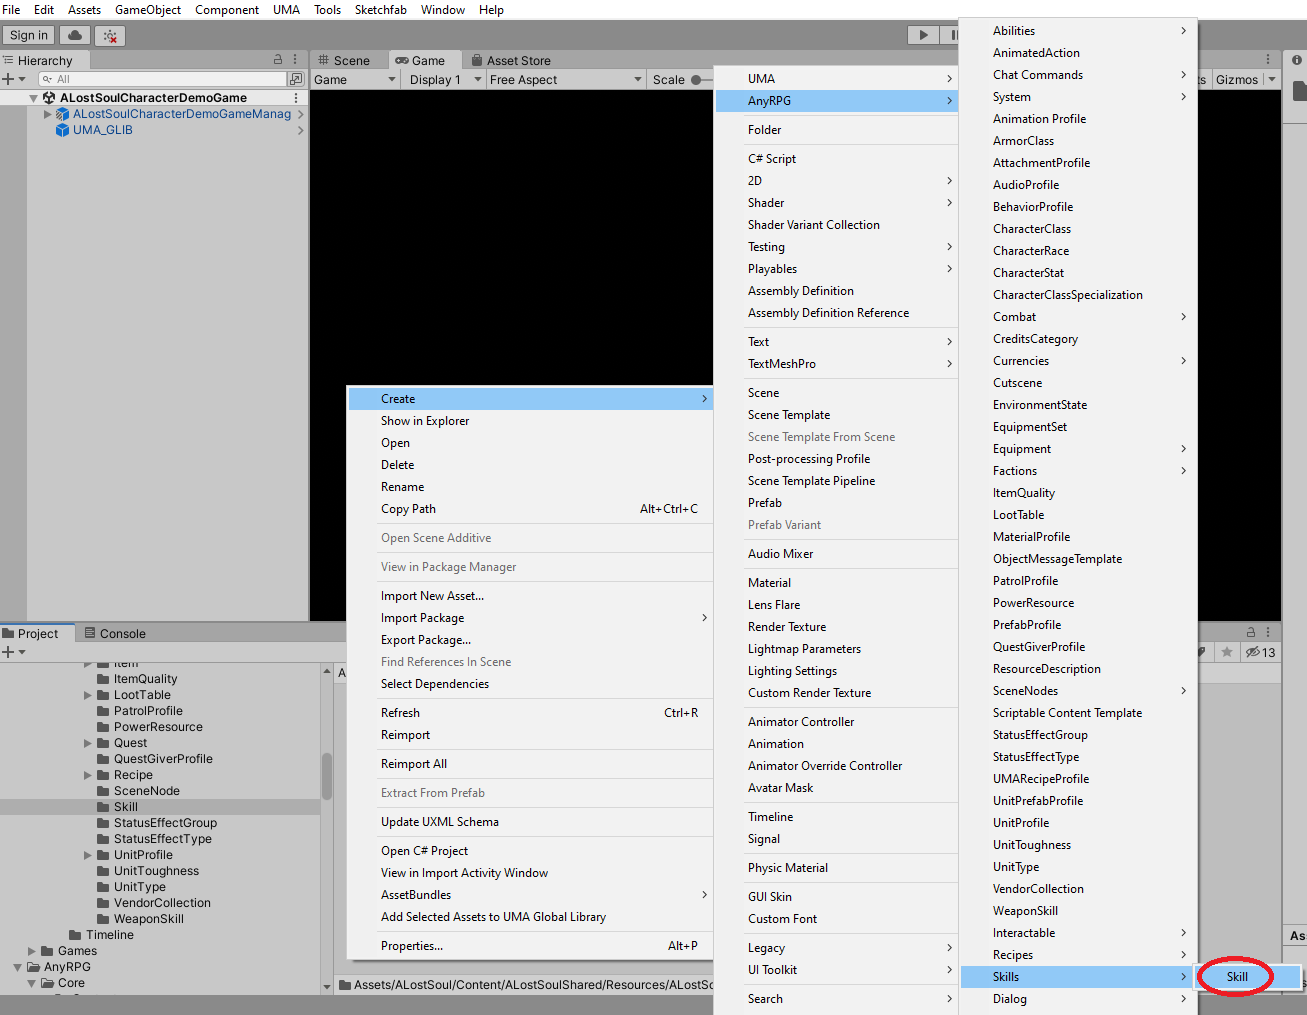
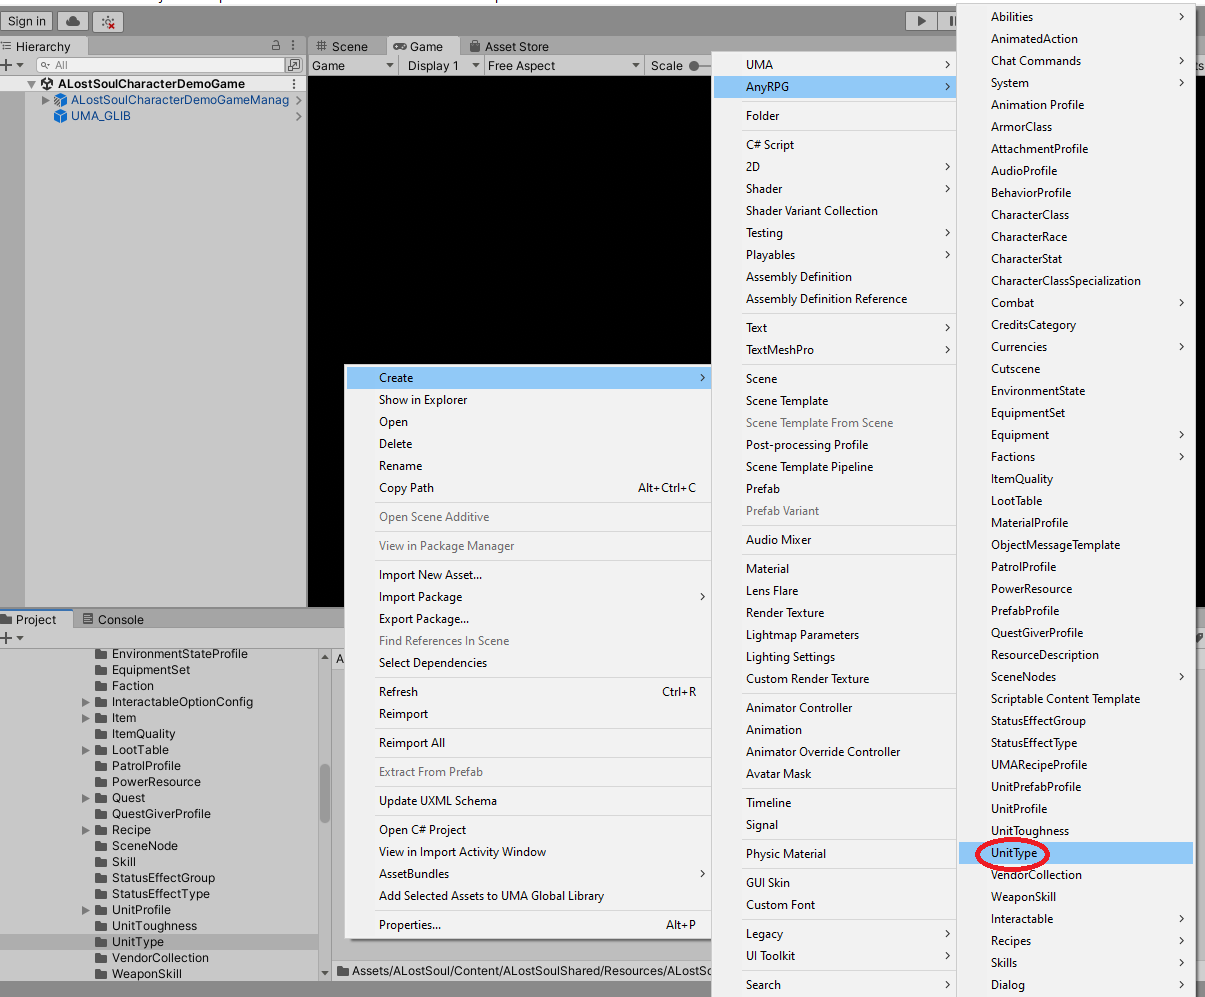
GitBook: [#66] add bank config documentation

Changed region(s): [[0.0, 0.0, 1.0, 1.0], [0.4913, 0.4975, 0.522, 0.5286]]

diff --git a/SUMMARY.md b/SUMMARY.md
@@ -81,15 +81,15 @@
 * [Equipment Slot Type](scriptable-objects/equipment-slot-type.md)
 * [Faction](scriptable-objects/faction.md)
 * [Interactable Option Configurations](scriptable-objects/interactable-option-configurations/README.md)
-  * [Gathering Node Config](scriptable-objects/interactable-option-configurations/gathering-node-config.md)
-  * [Faction Change Config](scriptable-objects/interactable-option-configurations/faction-change-config.md)
-  * [Dialog Config](scriptable-objects/interactable-option-configurations/dialog-config.md)
-  * [Cutscene Config](scriptable-objects/interactable-option-configurations/cutscene-config.md)
-  * [Crafting Node Config](scriptable-objects/interactable-option-configurations/crafting-node-config.md)
-  * [Class Change Config](scriptable-objects/interactable-option-configurations/class-change-config.md)
-  * [Character Creator Config](scriptable-objects/interactable-option-configurations/character-creator-config.md)
-  * [Behavior Config](scriptable-objects/interactable-option-configurations/behavior-config.md)
   * [Bank Config](scriptable-objects/interactable-option-configurations/bank-config.md)
+  * [Behavior Config](scriptable-objects/interactable-option-configurations/behavior-config.md)
+  * [Character Creator Config](scriptable-objects/interactable-option-configurations/character-creator-config.md)
+  * [Class Change Config](scriptable-objects/interactable-option-configurations/class-change-config.md)
+  * [Crafting Node Config](scriptable-objects/interactable-option-configurations/crafting-node-config.md)
+  * [Cutscene Config](scriptable-objects/interactable-option-configurations/cutscene-config.md)
+  * [Dialog Config](scriptable-objects/interactable-option-configurations/dialog-config.md)
+  * [Faction Change Config](scriptable-objects/interactable-option-configurations/faction-change-config.md)
+  * [Gathering Node Config](scriptable-objects/interactable-option-configurations/gathering-node-config.md)
   * [Item Pickup Config](scriptable-objects/interactable-option-configurations/item-pickup-config.md)
   * [Load Scene Config](scriptable-objects/interactable-option-configurations/load-scene-config.md)
   * [Lootable Character Config](scriptable-objects/interactable-option-configurations/lootable-character-config.md)

diff --git a/scriptable-objects/interactable-option-configurations/bank-config.md b/scriptable-objects/interactable-option-configurations/bank-config.md
@@ -1,5 +1,21 @@
+---
+description: >-
+  A bank config creates a bank interactable option, which allows the character
+  to store items.
+---
+
 # Bank Config
 
-{% hint style="info" %}
-Coming Soon
-{% endhint %}
+## Creation
+
+To create a faction, find (or create) the _GameName/Resources/GameName/InteractableOptionConfig_ folder in the project tab and right click.  Choose _Create > AnyRPG > Interactable > BankConfig_.
+
+![](../../.gitbook/assets/image.png)
+
+## Properties
+
+A bank config does not have any properties other than the properties shared by all [Interactable Option Configs](./#properties).
+
+## Next Steps
+
+* Add a bank config to a [Unit Profile](../unit-profile.md) to allow the character to serve as a bank.

diff --git a/scriptable-objects/skill.md b/scriptable-objects/skill.md
@@ -8,7 +8,7 @@ description: A skill allows you to learn abilities that let you gather or craft 
 
 To create a skill, find (or create) the _GameName/Resources/GameName/Recipe_ folder in the project tab and right click.  Choose _Create > AnyRPG > Skills > Skill_.
 
-![](<../.gitbook/assets/image (1) (2).png>)
+![](<../.gitbook/assets/image (1) (2) (2).png>)
 
 ## Properties
 

diff --git a/scriptable-objects/unit-type.md b/scriptable-objects/unit-type.md
@@ -10,7 +10,7 @@ description: >-
 
 To create a unit type, find (or create) the _GameName/Resources/GameName/UnitType_ folder in the project tab and right click.  Choose _Create > AnyRPG > UnitType_.
 
-![](<../.gitbook/assets/image (1).png>)
+![](<../.gitbook/assets/image (1) (2).png>)
 
 ## Properties
 

diff --git a/scriptable-objects/unit-profile.md b/scriptable-objects/unit-profile.md
@@ -10,7 +10,7 @@ description: >-
 
 To create a unit profile, find (or create) the _GameName/Resources/GameName/UnitProfile_ folder in the project tab and right click.  Choose _Create > AnyRPG > UnitProfile_.
 
-![](../.gitbook/assets/image.png)
+![](<../.gitbook/assets/image (1).png>)
 
 ## Properties
 
